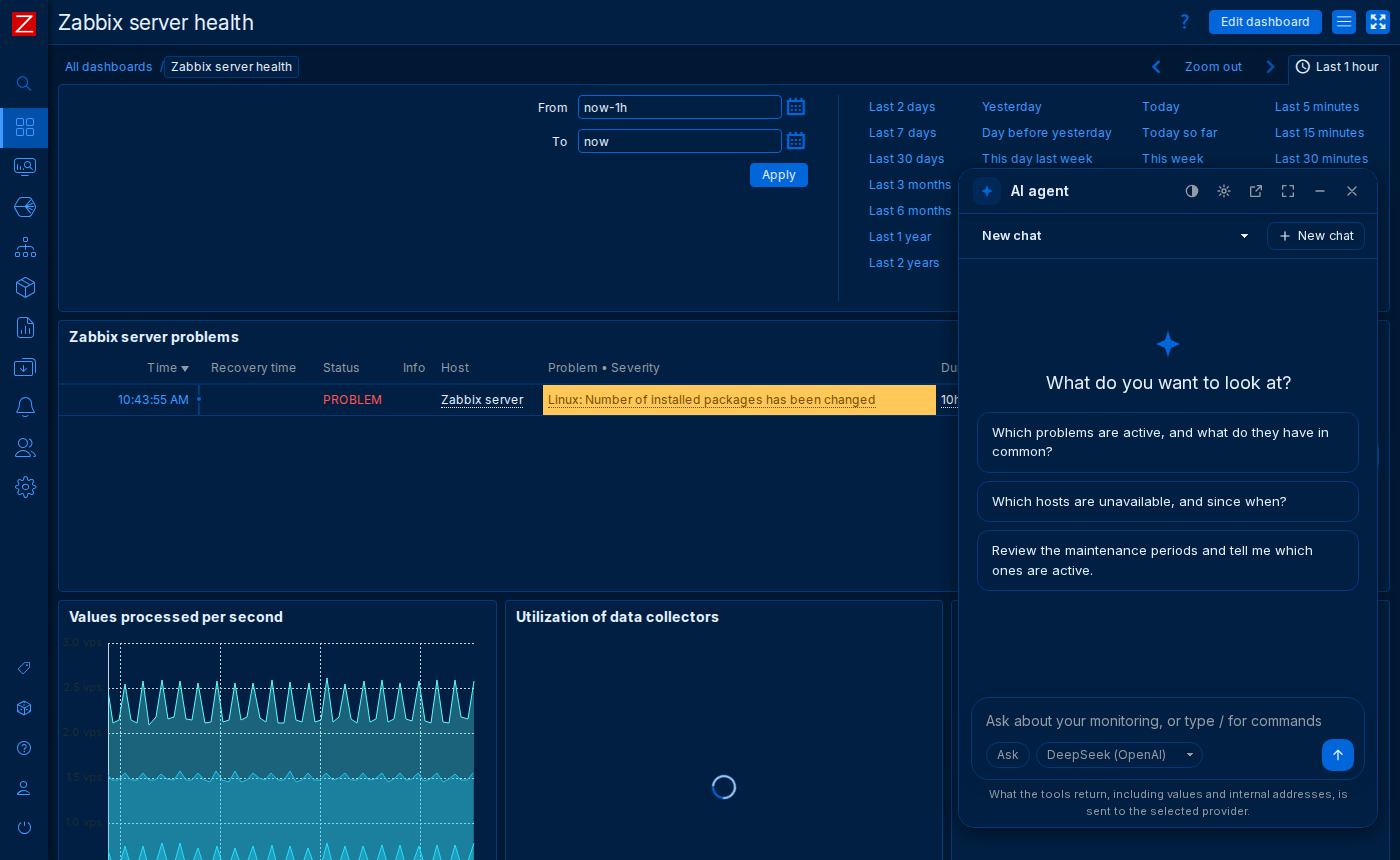
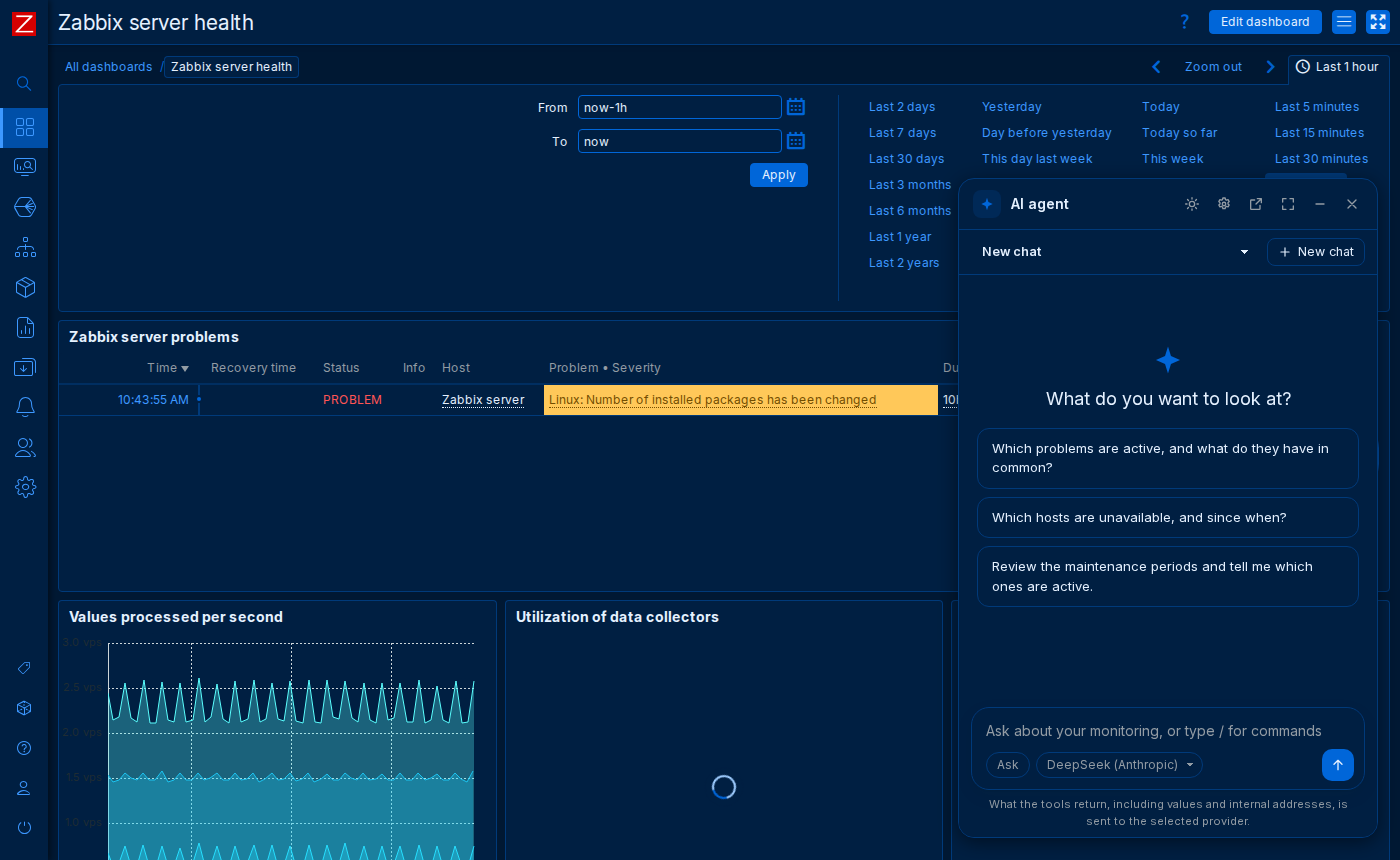
fix: theme toggle without flashing, distinct settings button
- The light/dark button switches between the two at each click and goes back
  to the Zabbix theme when they match.
- No color transitions of Zabbix inside the chat, and no header or section
  elements, which Zabbix styles.
- Gear icon with teeth, hidden on the settings page; settings borders follow
  the theme.

diff --git a/modules/ZabbixAgent/assets/js/agent.js b/modules/ZabbixAgent/assets/js/agent.js
@@ -62,14 +62,14 @@
 		wide: '<path d="M9 4H4v5M15 4h5v5M9 20H4v-5M15 20h5v-5"/>',
 		narrow: '<path d="M4 9h5V4M20 9h-5V4M4 15h5v5M20 15h-5v5"/>',
 		close: '<path d="M6 6l12 12M18 6L6 18"/>',
-		gear: '<circle cx="12" cy="12" r="3"/><path d="M12 3v2.5M12 18.5V21M3 12h2.5M18.5 12H21M5.6 5.6l1.8 1.8M16.6 16.6l1.8 1.8M5.6 18.4l1.8-1.8M16.6 7.4l1.8-1.8"/>',
+		gear: '<path d="M10.3 3h3.4l.5 2.4 1.6.9 2.3-.8 1.7 2.9-1.8 1.6v1.9l1.8 1.6-1.7 2.9-2.3-.8-1.6.9-.5 2.4h-3.4l-.5-2.4'
+			+ '-1.6-.9-2.3.8-1.7-2.9 1.8-1.6v-1.9L4.2 8.4l1.7-2.9 2.3.8 1.6-.9z"/><circle cx="12" cy="12" r="2.6"/>',
 		page: '<path d="M14 4h6v6M20 4l-8 8M18 14v5a1 1 0 0 1-1 1H5a1 1 0 0 1-1-1V7a1 1 0 0 1 1-1h5"/>',
 		chat: '<path d="M20 12.5a7.5 7.5 0 0 1-11.2 6.5L4 20l1.2-4.3A7.5 7.5 0 1 1 20 12.5z"/>'
 			+ '<path d="M12.5 8.5l.9 2.6 2.6.9-2.6.9-.9 2.6-.9-2.6-2.6-.9 2.6-.9z" fill="currentColor" stroke="none"/>',
 		sun: '<circle cx="12" cy="12" r="4"/><path d="M12 2.5v2M12 19.5v2M2.5 12h2M19.5 12h2M5.3 5.3l1.4 1.4M17.3 17.3l1.4 1.4'
 			+ 'M5.3 18.7l1.4-1.4M17.3 6.7l1.4-1.4"/>',
-		moon: '<path d="M20 14.5A8 8 0 1 1 9.5 4a6.5 6.5 0 0 0 10.5 10.5z"/>',
-		auto: '<circle cx="12" cy="12" r="8.5"/><path d="M12 3.5v17a8.5 8.5 0 0 0 0-17z" fill="currentColor" stroke="none"/>'
+		moon: '<path d="M20 14.5A8 8 0 1 1 9.5 4a6.5 6.5 0 0 0 10.5 10.5z"/>'
 	};
 
 	/* Pairs of Zabbix themes: the light and the dark version of the same look. */
@@ -441,33 +441,45 @@
 			return zabbix;
 		}
 
-		button() {
-			const button = iconButton('auto', t('Theme'), 'zbxagent-theme');
+		static dark(theme) {
+			return theme in LIGHT_OF;
+		}
 
-			button.addEventListener('click', () => this.cycle());
+		button() {
+			const button = iconButton('moon', t('Theme'), 'zbxagent-theme');
+
+			button.addEventListener('click', () => this.toggle());
 			this.buttons.push(button);
 			this.apply();
 
 			return button;
 		}
 
-		cycle() {
-			this.mode = THEME_MODES[(THEME_MODES.indexOf(this.mode) + 1) % THEME_MODES.length];
+		/* Each click shows the opposite; when that is the theme of Zabbix, the chat follows Zabbix again. */
+		toggle() {
+			const target = Theme.dark(this.resolve()) ? 'light' : 'dark';
+			const zabbix = Theme.zabbix();
+
+			this.mode = Theme.dark(zabbix) === (target === 'dark') ? 'auto' : target;
 			this.ui.set({theme: this.mode});
 			this.apply();
 		}
 
 		apply() {
 			const theme = this.resolve();
-			const label = {
-				auto: t('Theme: as in Zabbix'),
-				light: t('Theme: light'),
-				dark: t('Theme: dark')
-			}[this.mode] + ' · ' + t('Click to change it. Only the chat changes.');
+			const dark = Theme.dark(theme);
+			const label = (dark ? t('Switch to light (only the chat)') : t('Switch to dark (only the chat)'))
+				+ ' · ' + t('Zabbix theme') + ': ' + Theme.zabbix();
 
-			this.roots.forEach((root) => root.setAttribute('data-theme', theme));
+			this.roots.forEach((root) => {
+				root.classList.add('is-switching');
+				root.setAttribute('data-theme', theme);
+			});
+			requestAnimationFrame(() => requestAnimationFrame(() =>
+				this.roots.forEach((root) => root.classList.remove('is-switching'))
+			));
 			this.buttons.forEach((button) => {
-				button.innerHTML = icon({auto: 'auto', light: 'sun', dark: 'moon'}[this.mode]);
+				button.innerHTML = icon(dark ? 'sun' : 'moon');
 				button.title = label;
 				button.setAttribute('aria-label', label);
 			});
@@ -1775,11 +1787,11 @@
 			this.launcher.append(el('span', 'zbxagent-badge'));
 			this.launcher.addEventListener('click', () => this.open());
 
-			this.panel = el('section', 'zbxagent-panel');
+			this.panel = el('div', 'zbxagent-panel');
 			this.panel.setAttribute('role', 'dialog');
 			this.panel.setAttribute('aria-label', t('AI agent'));
 
-			const head = el('header', 'zbxagent-head');
+			const head = el('div', 'zbxagent-head');
 			const mark = el('span', 'zbxagent-mark');
 			mark.innerHTML = icon('spark');
 
@@ -1795,7 +1807,7 @@
 			this.theme = new Theme(this.ui, [this.root, this.chat]);
 			actions.append(this.theme.button());
 
-			if (config.settings_url) {
+			if (config.settings_url && new URLSearchParams(location.search).get('action') !== 'agent.settings') {
 				const settings = iconButton('gear', t('Settings'));
 				settings.addEventListener('click', () => { location.href = config.settings_url; });
 				actions.append(settings);

diff --git a/modules/ZabbixAgent/assets/css/agent.css b/modules/ZabbixAgent/assets/css/agent.css
@@ -152,6 +152,22 @@
 	cursor: pointer;
 	-webkit-appearance: none;
 	appearance: none;
+	transition: none;
+}
+
+/* Zabbix animates the colors of its controls; inside the chat they change at once, also when the theme changes. */
+#zbxagent select,
+#zbxagent textarea,
+#zbxagent input {
+	transition: none;
+}
+
+#zbxagent.is-switching,
+#zbxagent.is-switching *,
+#zbxagent-dock.is-switching,
+#zbxagent-dock.is-switching * {
+	transition: none !important;
+	animation: none !important;
 }
 
 #zbxagent button:focus,
@@ -1171,7 +1187,7 @@
 .zbxagent-settings-box {
 	margin-bottom: 16px;
 	padding: 12px 16px;
-	border: 1px solid #d3dade;
+	border: 1px solid color-mix(in srgb, currentColor 22%, transparent);
 }
 
 .zbxagent-settings-box h4 {
@@ -1208,7 +1224,7 @@
 .zbxagent-provider {
 	margin-bottom: 14px;
 	padding: 12px;
-	border: 1px dashed #aab5bb;
+	border: 1px dashed color-mix(in srgb, currentColor 35%, transparent);
 }
 
 .zbxagent-provider-actions,

diff --git a/modules/ZabbixAgent/lang/es.php b/modules/ZabbixAgent/lang/es.php
@@ -111,8 +111,7 @@ return [
 	'Plan' => 'Plan',
 	'Auto' => 'Auto',
 	'Theme' => 'Tema',
-	'Theme: as in Zabbix' => 'Tema: como en Zabbix',
-	'Theme: light' => 'Tema: claro',
-	'Theme: dark' => 'Tema: oscuro',
-	'Click to change it. Only the chat changes.' => 'Pulsa para cambiarlo. Solo cambia el chat.',
+	'Switch to dark (only the chat)' => 'Cambiar a oscuro (solo el chat)',
+	'Switch to light (only the chat)' => 'Cambiar a claro (solo el chat)',
+	'Zabbix theme' => 'Tema de Zabbix',
 ];

diff --git a/docs/guia-ubuntu-paso-a-paso.md b/docs/guia-ubuntu-paso-a-paso.md
@@ -189,7 +189,7 @@ Pulsa el **botón redondo de la esquina inferior derecha**, en cualquier página
 | **Minimizado** | Solo la barra del título, con lo que está haciendo el agente | Botón `–`, o `Esc` desde normal. Un clic en la barra lo restaura |
 | **Cerrado** | Solo el botón redondo. Un punto naranja avisa si espera tu aprobación; uno verde, que ya respondió | Botón `×` o `Ctrl+.` |
 
-**Colores:** el chat usa los del tema de Zabbix de cada usuario (los 7 temas). El botón ◐ de la cabecera alterna entre *como en Zabbix*, *claro* y *oscuro*; solo cambia el chat y se recuerda.
+**Colores:** el chat usa los del tema de Zabbix de cada usuario (los 7 temas). El botón de la luna o el sol, en la cabecera, cambia el chat a oscuro o a claro; al volver a pulsarlo, vuelve al tema de Zabbix. Solo cambia el chat y se recuerda. El engranaje de al lado abre los ajustes, y no aparece en la propia página de ajustes.
 
 ![Chat amplio](screenshots/dock-wide.png)
 
@@ -257,6 +257,7 @@ La página **Monitoring → AI agent** muestra el mismo chat a pantalla completa
 | 11 | 6 | Un proveedor respondía `HTTP 404` | Tenía tipo *Anthropic-compatible* con la URL `https://api.deepseek.com`, que es la de OpenAI | Usa la pareja correcta de la tabla del paso 5. **Test** lo detecta |
 | 12 | 6 | El chat no se ponía oscuro con *Dark blue* ni *Dark classic* | Solo reconocía `dark-theme` y `hc-dark`, de los 7 temas de Zabbix 8 | Ahora toma los colores de cada tema de Zabbix y tiene su propio botón claro/oscuro |
 | 13 | 6 | Selectores con aspecto nativo y textos cortados en Mac | Cada navegador dibuja `select` a su manera, y las etiquetas eran largas | Selectores propios, etiquetas cortas y el texto completo al pasar el ratón |
+| 14 | 6 | Al cambiar de tema, el chat parpadeaba y quedaban zonas claras; el engranaje parecía otro botón de tema | Zabbix anima el color de todos sus botones, y da fondo a todo `header`; el icono de ajustes parecía un sol | Sin transiciones dentro del chat, cabecera propia sin `header` e icono de engranaje con dientes |
 
 ## Otros problemas posibles
 

diff --git a/docs/ubuntu-step-by-step.md b/docs/ubuntu-step-by-step.md
@@ -189,7 +189,7 @@ Press the **round button in the lower-right corner**, on any page of Zabbix, or 
 | **Minimized** | Only the title bar, with what the agent is doing | `–` button, or `Esc` from normal. A click on the bar restores it |
 | **Closed** | Only the round button. An orange dot means it waits for your approval; a green one, that it answered | `×` button or `Ctrl+.` |
 
-**Colors:** the chat uses those of the Zabbix theme of each user (the 7 themes). The ◐ button in the header switches between *as in Zabbix*, *light* and *dark*; it changes only the chat and is remembered.
+**Colors:** the chat uses those of the Zabbix theme of each user (the 7 themes). The moon or sun button in the header turns the chat dark or light; another click brings back the Zabbix theme. It changes only the chat and is remembered. The gear next to it opens the settings, and isn't shown on the settings page itself.
 
 ![Wide chat](screenshots/dock-wide.png)
 
@@ -257,6 +257,7 @@ The page **Monitoring → AI agent** shows the same chat full screen, with the s
 | 11 | 6 | A provider answered `HTTP 404` | It had the *Anthropic-compatible* type with `https://api.deepseek.com`, the OpenAI URL | Use the right pair from the table of step 5. **Test** finds it |
 | 12 | 6 | The chat didn't turn dark with *Dark blue* or *Dark classic* | It only knew `dark-theme` and `hc-dark`, of the 7 themes of Zabbix 8 | It now takes the colors of each Zabbix theme and has its own light/dark button |
 | 13 | 6 | Native-looking selects and cut texts on Mac | Each browser draws `select` its own way, and the labels were long | Own selects, short labels and the full text on hover |
+| 14 | 6 | When changing the theme, the chat flashed and left light areas; the gear looked like a second theme button | Zabbix animates the color of all its buttons and gives a background to every `header`; the settings icon looked like a sun | No transitions inside the chat, own header without `header`, and a gear icon with teeth |
 
 ## Other possible problems
 

diff --git a/CHANGELOG.md b/CHANGELOG.md
@@ -1,5 +1,12 @@
 # Changelog
 
+## 0.2.2
+
+- The light/dark button switches between the two at each click, with a sun or a moon. When the result is the theme of Zabbix, the chat follows Zabbix again.
+- No more flashing when the theme changes: the controls of the chat no longer use the color transitions of Zabbix.
+- The settings button has a gear that doesn't look like a sun, and isn't shown on the settings page itself.
+- The borders of the settings page follow the theme, without light lines in the dark themes.
+
 ## 0.2.1
 
 - **Colors of Zabbix:** the chat takes the colors of the theme of the user, from the stylesheets of Zabbix itself, in its 7 themes: Blue, Dark, Dark blue, Blue classic, Dark classic and the two high-contrast ones. Before, only two dark themes were recognized.
